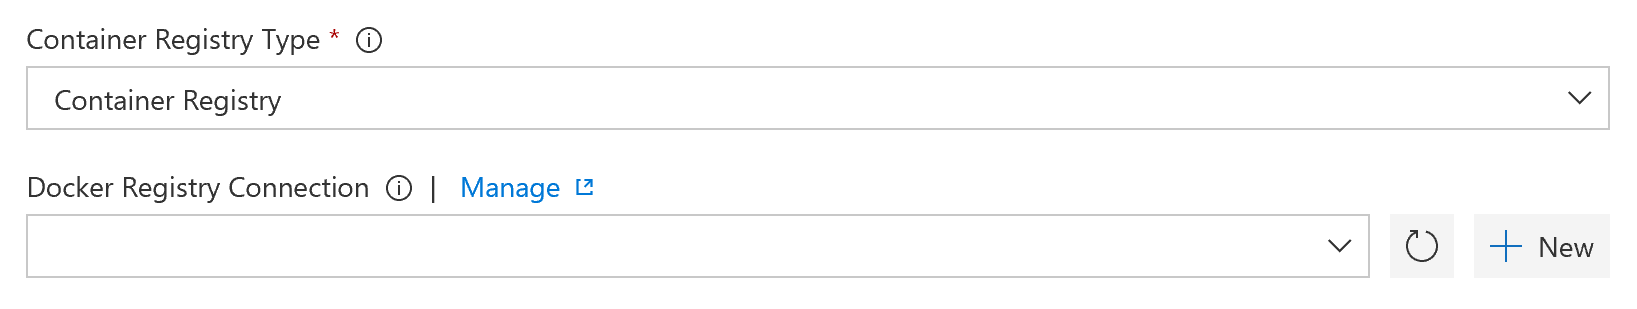
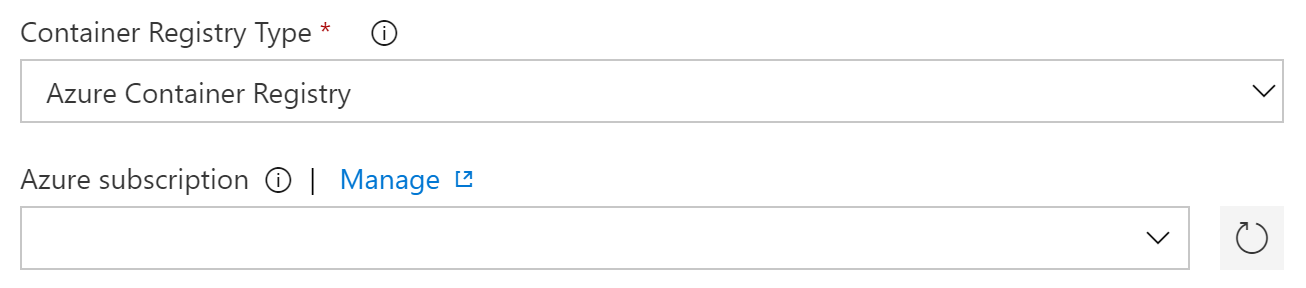
Created first two exercises for module 8

diff --git a/docs/Lab8-VSTSPipelines.md b/docs/Lab8-VSTSPipelines.md
@@ -1,139 +1,139 @@
-# Lab 8 - VSTS Build and release pipelines
+# Lab 8 - Azure DevOps Build and release pipelines
 
 Goals for this lab:
 - Create build pipeline to build images
 - Create release pipeline for deploying images to registry
 - Deploy images to cluster
 
-## Working with VSTS
+## Working with Azure DevOps
 
-Before you can get started with building pipelines, you need a Visual Studio Team Services (VSTS) account and a team project. You can use an existing VSTS account, or create a new one at [Visual Studio](https://www.visualstudio.com).
+Before you can get started with building pipelines, you need a Azure DevOps (ADO) account and a team project. You can use an existing ADO account, or create a new one at [Visual Studio](https://www.visualstudio.com).
 
-Also, your cloned Git repository needs to be pushed to the VSTS project. Assuming you have your current work branch checked out, you can change the 
-
+Also, your cloned Git repository needs to be pushed to the ADO project. Assuming you have your current work branch checked out, you can change the URL for the origin to point to the Git repo in your Team Project.
 ```
-git remote set-url origin https://<your-vsts-account>.visualstudio.com/SDP2017/_git/dockerworkshop2017
+git remote set-url origin https://<your-vsts-account>.visualstudio.com/ContainerWorkshopTeamProject/_git/dcontainerworkshop
 git push -u origin --all
 ```
 
 ## Create build pipelines
 
-Login to your VSTS account and switch to the correct team project. Go to the `Code` tab and check that your source code is there. Switch to `Build and Release` and create a new definition for a Build pipeline.
+Login to your ADO account and switch to the correct team project. Go to the `Code` tab and check that your source code is there. Switch to `Build and Release` and create a new definition for a Build pipeline. Select the link for Visual Designer at the start. Pick `Azure Repos Git` and the master branch of your Git repo.
 
-From the available templates select the `ASP.NET with Containers` template to give yourself a head start.
+From the available templates select the `ASP.NET Application with containers` template to give yourself a head start.
 
 <img src="images/ASPNETWithContainersVSTSBuildTemplate.png" width="400" />
 
-Under the `Process` section for the build process, select `Hosted Linux (Preview)` as the Agent queue:
+Under the `Pipeline` properties for the build process, select `Hosted Linux Preview` as the Agent pool:
 
 <img src="images/BuildProcessVSTS.png" width="600" />
 
-Notice that this template assumes that you will use an Azure Container Registry. You can use one if you create it. The lab expects you to use the previously created Docker Hub registry.
+Inspect the tasks in the pipeline. You can see that there are three tasks related to building the source code. Additionally, there are tasks for creating container images, and pushing these to your registry. The final two steps will place build items in a staging directory and publish these as part of the build artifacts.
 
-Inspect the various tasks in the pipeline. You can see that there are a couple of tasks related to building the source code for .NET Full Framework and intended for the Windows Operating System:
-- Use NuGet 4.3.0
-- NuGet restore
-- Build solution
+Remove the first 3 tasks from the pipeline, as those are meant for ASP.NET, not ASP.NET Core. You will build your application code using containers with the Docker composition file.
+Add a new `Docker Compose` task and name it `Compile assemblies`. 
 
-Since you will use a Docker container to build the sources and images for Linux, these three steps are implicit in the `docker-compose.ci.build.yml` compose file. Remove the first three tasks from the pipeline.
+Click the little exclamation mark next to the properties:
+- Container Registry Type
+- Azure subscription
+- Azure Container Registry
+- Docker Compose File
+- Environment Variables
+and choose `Link` from the popup window.
 
-Add a new Docker Compose task and name it `Build solution`. Change the Docker Compose file to be `docker-compose.ci.build.yml` and specify `up` as the compose command.
+Enter `build` as the Command that will execute for `Run a Docker Compose command`.
 
-After this new initial step there is compiled source code in the `bin\Docker\Release` folder. Moving on to the next three tasks:
+Select the pipeline at the top again to fill in all linked properties, as described below.
 
-<img src='images/DockerComposeVSTSTasks.png' width='150'/>
+Notice that this template assumes that you will use an Azure Container Registry. You can use one if you created it before. If not, refer back to [Lab 6](Lab6-RegistriesClusters.md) to read how to create the container registry.
 
-Since you will use the Docker Hub registry created earlier, set the `Container Registry Type` to `Container Registry` instead of `Azure Container Registry` for each of those Docker Compose tasks. 
+You need to create a connection between Azure DevOps and your Azure subscription. Open the details of the first task, locate the property for the `Azure subscription` and add your subscription details. 
 
-Create a Docker Registry Connection by clicking the `+ New` link.
 <img src="images/NewVSTSConnection.png" width="600" />
 
-Fill in the details for the connection, specifying your credentials.
-
-<img src="images/DockerHubVSTSConnection.png" width="500" />
-
-Select the connection to your Docker Hub from the dropdown. 
+After the registration of your subscription is completed, 
+select your container registry from the dropdown below. 
 
 Notice how the Docker Compose file is already preselected to be `docker-compose.yml`. This aligns with the previous design decision to only include actual images relevant to the application components to be in this Docker Compose file.
 
-You can specify additional Docker Compose files and one is already selected. Leave it there and create an empty `docker-compose.ci.yml` file in the root of your solution.
-
-Repeat this process for the other two Docker Compose tasks and choose the Docker Hub connection. Notice the `Qualify Images` checkbox for `Push images` to qualify the image names with the registry name.
-
-In the `Copy Files` task set the `Contents` property to these files:
+Further down, specify an environment variable for the registry, so the created images have the correct fully qualified name:
 ```
-**/docker-compose.production.yml
-**/docker-compose.production.*.yml
-**/docker-compose.azure.yml
+DOCKER_REGISTRY=<your-registry>.azurecr.io/
 ```
 
-Save the build definition and queue a new build. Check whether the build completes successfully and fix any errors that might occur. Inspect the build artifacts and download the `docker-compose.yml` file. It should resemble this:
+You can specify additional Docker Compose files. Remove the reference to file `docker-compose.ci.yml` from the other three Docker Compose tasks.
+
+Link the environment variables for all four Docker Compose tasks.
+
+This completes your first task to build your sources. The other 3 tasks 
+
+In the `Copy Files` task set the `Contents` property to this file:
+```
+**/gamingwebapp.k8s-dep.yaml
+```
+In the last task for `Publish Artifacts`, specify `artifacts` as the Artifact name.
+
+Save the build definition and queue a new build. Check whether the build completes successfully and fix any errors that might occur. Inspect the build artifacts, notice that there are 2 artifacts there, the Kubernetes manifest and a modified Docker compose file. Download the `docker-compose.yml` file and open it. It should resemble this:
 ```
 services:
   gamingwebapp:
     build:
       context: ./src/RetroGaming2017/src/Applications/GamingWebApp
       dockerfile: Dockerfile
-    image: sdp2017/gamingwebapp@sha256:e198caef40f1e886c3a70db008a69aa9995dc00301a035867757aad9560d9088
+    image: <your-registry>.azurecr.io/gamingwebapp@sha256:e198caef40f1e886c3a70db008a69aa9995dc00301a035867757aad9560d9088
   leaderboard.webapi:
     build:
       context: ./src/RetroGaming2017/src/Services/Leaderboard.WebAPI
       dockerfile: Dockerfile
-    image: sdp2017/leaderboard.webapi@sha256:40b83b74b7e6c5a06da2adbaf5d99aec64cde63c16a66956091cbddb93349f86
+    image: <your-registry>.azurecr.io/leaderboard.webapi@sha256:40b83b74b7e6c5a06da2adbaf5d99aec64cde63c16a66956091cbddb93349f86
 version: '3.0'
 ```
 
-Notice how the image names have an appended SHA256 digest value to confirm their identity in the registry. This file can be used to release the images into the cluster later on.
+Notice how the image names have an appended SHA256 digest value to confirm their identity in the registry. This file could be used to release the images into the cluster later on.
 
-When your build has completed without errors, you should find that your Docker Hub registry has a new image that is tagged with the build number. Verify this at your Docker Registry located at https://hub.docker.com/r/<registryname>, replacing `<registryname>` with your registry's name.
-
-<img src="images/DockerHubRegistry.png" width="600" />
+When your build has completed without errors, you should find that your container registry has a new image that is tagged with the build number. Verify this at your registry from the Azure portal.
 
 If this all is working correctly you are ready to release the new image to the cluster.
 
 ## Release new images to cluster
 
-The newly built Docker images are now located in the Docker Hub. You can release these to your cluster by instructing it to update the stack deployed earlier.
+With the Docker images located in the registry, you can release these to your cluster by instructing it deploy the composition defined in the Kubernetes manifest file. This file `gamingwebapp.k8s-dep.yaml` is now part of the build artifacts. This file contains various tokens that need to be replaced by actual values, such as the build ID and sensitive data. 
 
-Create a new release definition from the Releases tab in VSTS. Choose an `Empty process` and name the first environment `Production`. Navigate to its empty task list and set the Agent selection to `Hosted` under the Agent phase.
+Create a new release definition from the Releases tab in ADO. Choose an `Deploy to a Kubernetes cluster` and name the first stage `Production`. 
+Add a new artifact and select the previously made pipeline as the `Source`.
 
-Add a Docker task to execute a remote command over SSH. You need a SSH connection that you can create from the task property for the connection.
+Select the tasks in the Production environment from the link `1 job, 1 task` link. Navigate to its empty task list and set the Agent selection to `Hosted VS2017` under the Agent job.
 
-In the task use the same Docker command for deploying to update the current stack. 
+Add a `Replace Tokens` task as the first task of the release pipeline. You might have to download it from the Marketplace first. It is a task by Guillaume Rouchon and you can find more information [here](https://github.com/qetza/vsts-replacetokens-task#readme).
+
+Name the new task `Replace tokens in manifest` and set the root directory to `$(System.DefaultWorkingDirectory)/_RetroGaming2019CIBuild/docker-compose`. Specify `deployment/gamingwebapp.k8s-dep.yaml` as the Target Files property.
+
+Next, select the `Deploy to Kubernetes` task and create a connection to your cluster with the `+ New` button. A modal dialog pops up. Give the connection a name, such as `ContainerWorkshopCluster` and set the `Server URL` to the API server address (e.g. `https://containerworkshop-ca256b98.hcp.westeurope.azmk8s.io`) of your cluster.
+Finally, you need to get the KubeConfig from your Kubernetes cluster. Run the command:
 ```
-docker stack deploy -c docker-compose.azure.yml retrogamingstack
+az aks get-credentials --name ContainerWorkshopCluster --resource-group ContainerWorkshop -a --file -
 ```
+This will dump the configuration to the output window. Copy it in the dialog of ADO. Check the checkbox for `Accept untrusted certificates`. Verify the connection. If all is well, close the dialog by clicking `OK`.
 
-## Improve deployment details
+Set the property for Namespace to `$(Namespace)`.
 
-You can indicate how the individual services will be deployed inside your composition. The compose file allows you to indicate deployment characteristics per service with a `deploy` section. 
+Finally, you are going to add a number of pipeline variables to serve as the replacement values in the deployment manifest and the namespace in the cluster to which will be deployed.
+Here is the list of variables you need to create:
 
-Add a `deploy` section to the web application to indicate it should be deployed with 2 running replicas (copies):
-```
-deploy:
-  replicas: 2
-```
+Name | Value (example)
+--- | ---
+containerregistry | containerworkshopregistry.azurecr.io
+dns | imworld.5a79006cd4b54431acb1.westeurope.aksapp.io
+keyvaultclientid | ca5a0aeb-0eec-49a3-a527-a29e2524fa5b
+keyvaultclientsecret | 45gSC1AZ3lkaSUHpsqFfL/+vddtbshVs1umC0IZWsVY=
+keyvaulturl | https://Containerworkshop.vault.azure.net
+namespace | workshop
 
-Similarly, do the same for the Web API service, but additionally describe its restart behavior.
-```
-deploy:
-  replicas: 1
-  restart_policy:
-  condition: on-failure
-  delay: 5s
-  max_attempts: 3
-```
+Each of these variable names should be familiar and known to you by now. Set their values. Some of these will be used later.
 
-Change these settings in the `docker-compose.azure.yml` file and connect to your cluster again using the SSH tunnel. Excute the Docker command to update the stack deployment from the Docker CLI. Examine the results by running:
-```
-docker stack services retrogamingstack
-```
-You should find that the `gamingwebapp` service has a higher numbers for the replication count in the services
-
-Finally, commit and push your changes. Run a new build and consequent release to verify that the deployment changes have been made.
+Try your release pipeline by creating a new release. Check whether the release is successful and fix any errors. You might want to check the Kubernetes dashboard to see if the cluster deployment succeeded as well. If all is well, you should be able to access the DNS host endpoint of your HTTP application route to view the web application.
 
 ## Wrapup
 
-In this lab you have created a build pipeline to build and push the container images for your .NET solution. You used a release pipeline to deploy the composition to a cluster in Azure. Additionally, you added deployment details to the composition file to describe the replicas and restart behavior of your stack.
+In this lab you have created a build pipeline to build and push the container images for your .NET solution. You used a release pipeline to deploy the composition to a cluster in Azure.
 
 Continue with [Lab 9 - Exploration](Lab9-Explore.md).

diff --git a/docs/Lab1-GettingStarted.md b/docs/Lab1-GettingStarted.md
@@ -83,7 +83,7 @@ Install the Azure Kubernetes Service Command-Line Interface tools by running:
 ```
 az aks install-cli
 ```
-Next, create a service principal to manage the Azure subscription and allow 
+Next, create a service principal to manage the Azure subscription. Store the information that is displayed after creation:
 
 ```
 az ad sp create-for-rbac --name "ContainerWorkshopServicePrincipal" --skip-assignment
